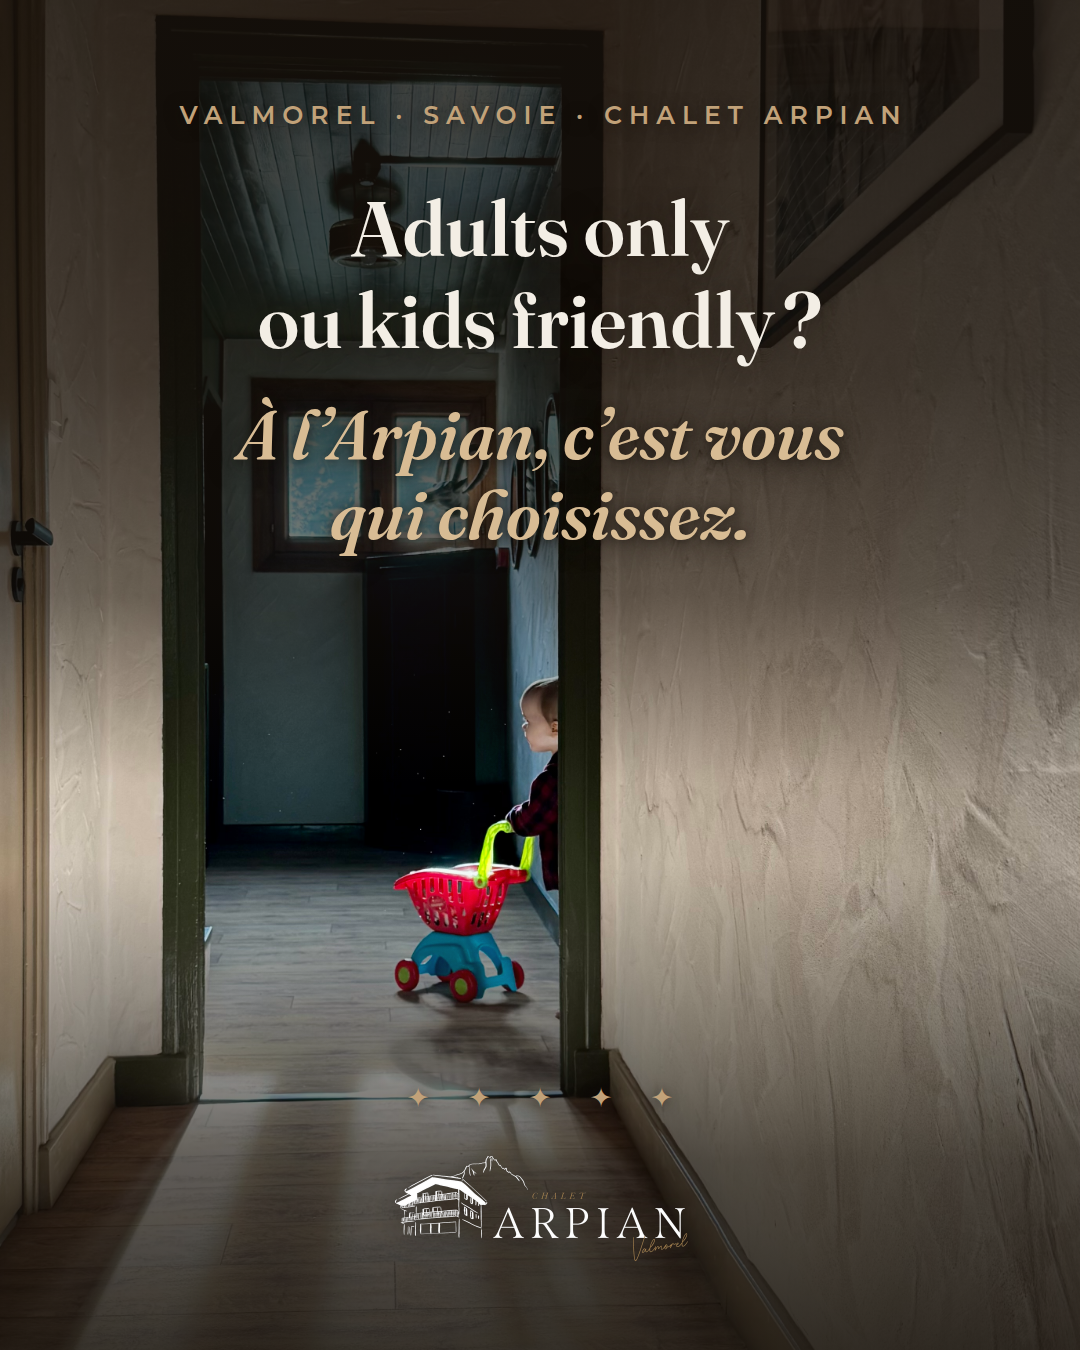
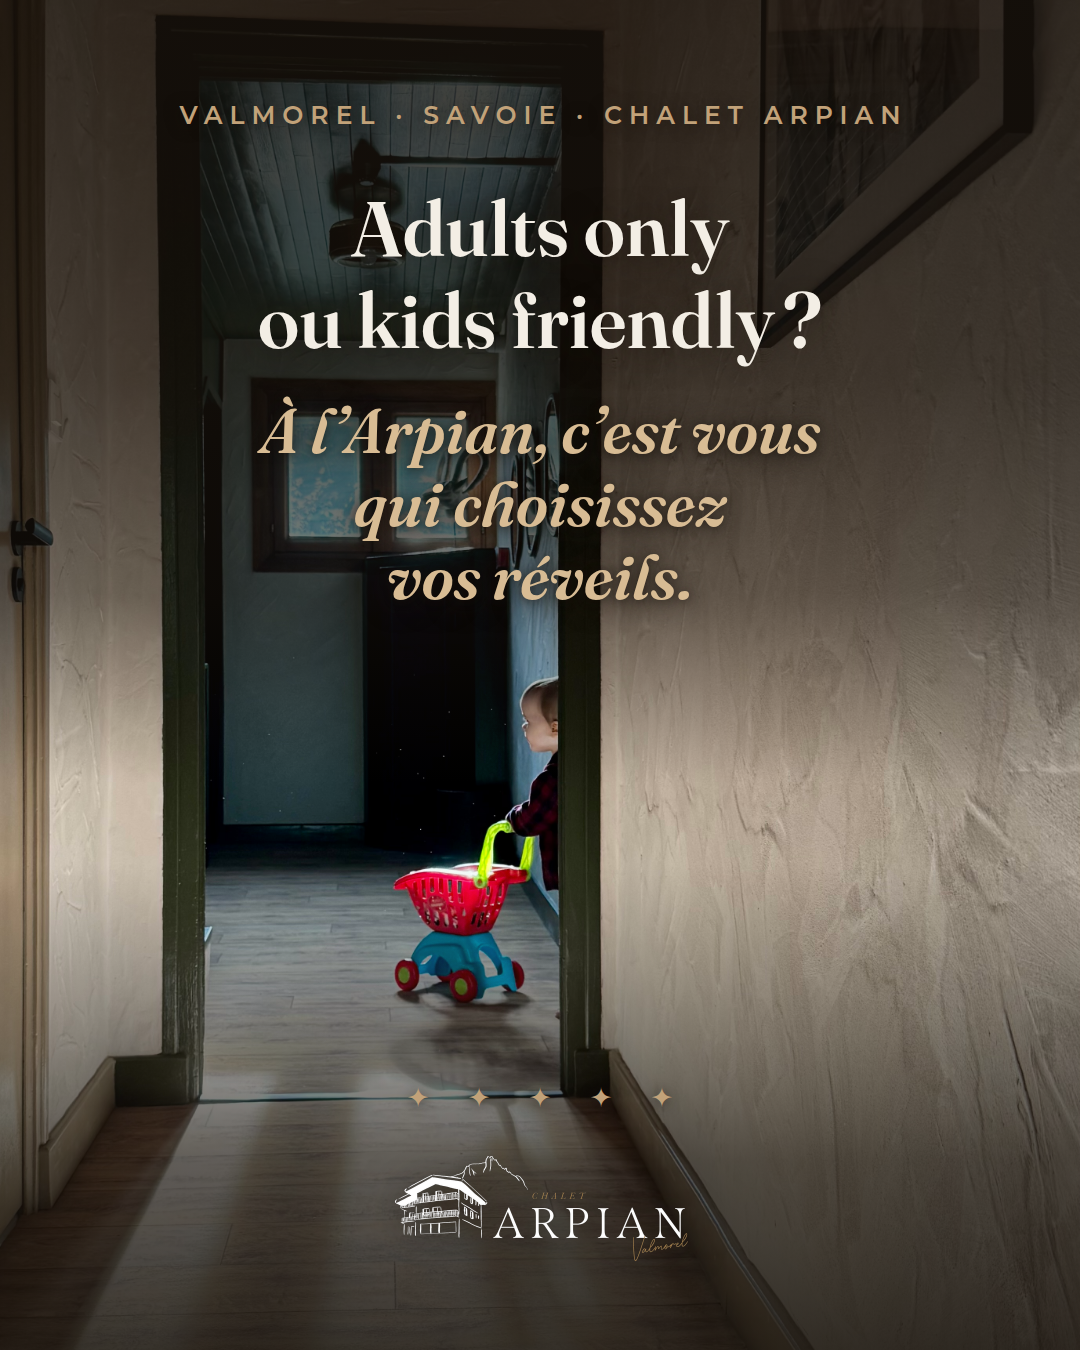
Adults-kids slide: accent becomes 'c'est vous qui choisissez vos reveils'
Clin d'oeil a la photo (bambin deja debout) ; decoupe 3 lignes a 62px,
mesuree au navigateur pour ne jamais depasser la ligne creme

Claude-Session: https://claude.ai/code/session_01RLUktmYZh4ZTRRqprvaJEy

Changed region(s): [[0.2139, 0.28, 0.7944, 0.4667]]

diff --git a/projects/arpian/instagram-carousel/slide-post-adults-kids.html b/projects/arpian/instagram-carousel/slide-post-adults-kids.html
@@ -66,7 +66,7 @@
     display: inline-block;
     margin-top: 28px;
     font-style: italic; font-weight: 600;
-    font-size: 68px;
+    font-size: 62px;
     color: #D8BC94;
     text-shadow:
       0 3px 28px rgba(24,18,12,0.85),
@@ -95,7 +95,7 @@
 
     <div class="content">
       <div class="kicker">Valmorel &middot; Savoie &middot; Chalet Arpian</div>
-      <h1>Adults only<br>ou kids friendly&#8239;?<br><span class="accent">&Agrave; l&rsquo;Arpian, c&rsquo;est vous<br>qui choisissez.</span></h1>
+      <h1>Adults only<br>ou kids friendly&#8239;?<br><span class="accent">&Agrave; l&rsquo;Arpian, c&rsquo;est vous<br>qui choisissez<br>vos r&eacute;veils.</span></h1>
     </div>
 
     <div class="stars">&#10022;&nbsp;&#10022;&nbsp;&#10022;&nbsp;&#10022;&nbsp;&#10022;</div>
